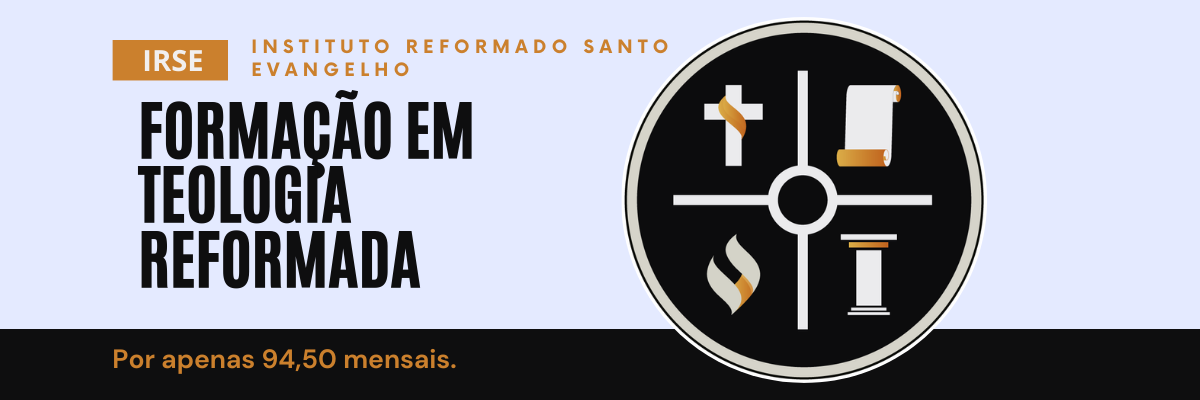
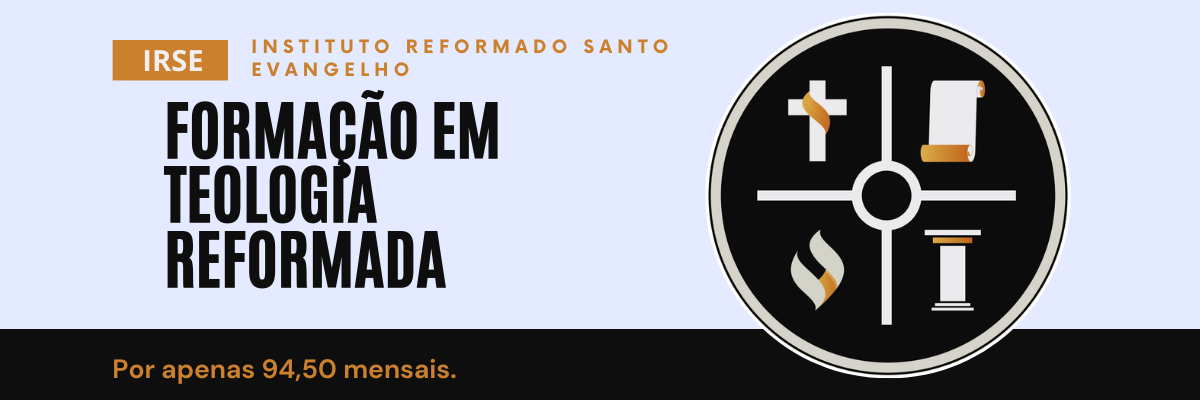
Centralizando conteúdo dos slides

Changed region(s): [[0.4933, 0.03, 0.8942, 0.96], [0.0925, 0.21, 0.4317, 0.72], [0.0925, 0.87, 0.4008, 0.96]]

diff --git a/components/home/Slide.vue b/components/home/Slide.vue
@@ -34,7 +34,7 @@ onBeforeMount(() => {
 
         iMin++;
 
-    }, 5000);
+    }, 2000);
 });
 </script>
 <style scoped>
@@ -44,7 +44,6 @@ onBeforeMount(() => {
     aspect-ratio: 3/1;
     overflow: hidden;
     margin: 50px auto 0 auto;
-    border-radius: 0 0 7px 7px;
 }
 .slides-container img{
     position: absolute;
